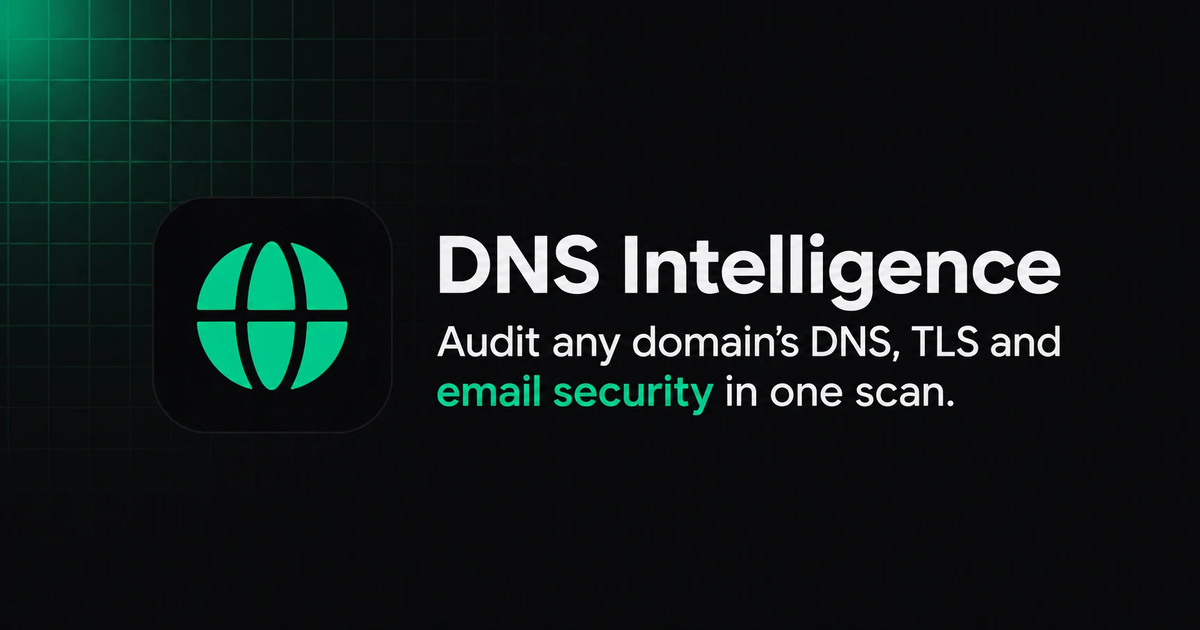
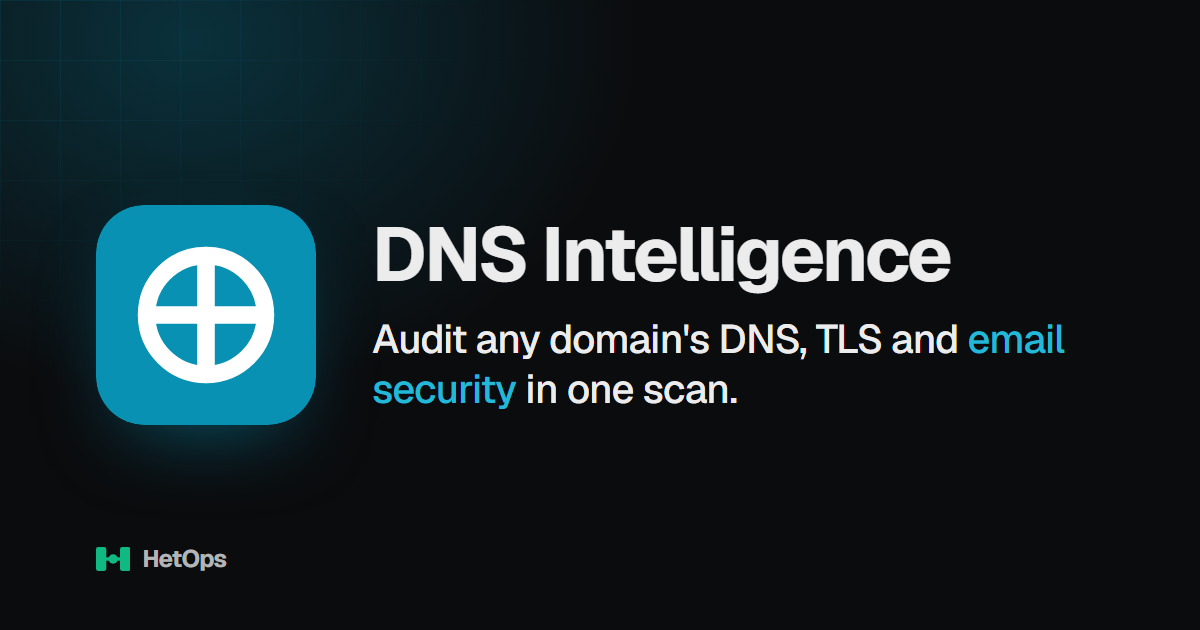
DNS Intelligence gets its own accent: cyan
- Product accent emerald -> cyan #0891B2 across the app and /docs;
  the HetOps symbol stays emerald as the parent brand
- New cyan app icon (Tallybank-style tile) for favicons and app icons
- Share image redrawn in cyan

Changed region(s): [[0.0, 0.0, 0.8942, 0.7238], [0.0617, 0.8746, 0.185, 0.9048], [0.0, 0.3016, 0.0617, 0.3317]]

diff --git a/public/index.html b/public/index.html
@@ -33,12 +33,12 @@
       --mono: 'Geist Mono', ui-monospace, monospace;
       --wordmark: var(--sans);
 
-      --brand:        #10b981;
-      --brand-dim:    #059669;
-      --brand-ink:    #04140d;
-      --brand-glow:   rgba(16,185,129,0.22);
-      --brand-subtle: rgba(16,185,129,0.09);
-      --brand-border: rgba(16,185,129,0.34);
+      --brand:        #0891b2;
+      --brand-dim:    #0e7490;
+      --brand-ink:    #03161b;
+      --brand-glow:   rgba(8,145,178,0.22);
+      --brand-subtle: rgba(8,145,178,0.09);
+      --brand-border: rgba(8,145,178,0.34);
 
       /* The old cyan accent now resolves to the brand accent */
       --accent:        var(--brand);
@@ -58,7 +58,7 @@
       --bg-card-hi: #15181c;
       --border:     rgba(255,255,255,0.07);
       --border-hi:  rgba(255,255,255,0.13);
-      --border-glow:rgba(16,185,129,0.28);
+      --border-glow:rgba(8,145,178,0.28);
       --text:       #ececed;
       --text-dim:   rgba(236,236,237,0.74);
       --text-muted: rgba(236,236,237,0.6);
@@ -79,7 +79,7 @@
       min-height: 100dvh; -webkit-font-smoothing: antialiased; overflow-x: hidden;
       font-feature-settings: "ss01", "cv11";
     }
-    ::selection { background: rgba(16,185,129,0.3); }
+    ::selection { background: rgba(8,145,178,0.3); }
     ::-webkit-scrollbar { width: 8px; height: 8px; }
     ::-webkit-scrollbar-track { background: transparent; }
     ::-webkit-scrollbar-thumb { background: rgba(255,255,255,0.08); border-radius: 8px; border: 2px solid var(--bg); }
@@ -98,7 +98,7 @@
     }
     .bg-glow {
       position: absolute; top: -380px; left: -120px; width: 1100px; height: 760px;
-      background: radial-gradient(closest-side, rgba(16,185,129,0.13), transparent);
+      background: radial-gradient(closest-side, rgba(8,145,178,0.13), transparent);
     }
 
     /* ══ LAYOUT ══════════════════════════════════════════════════ */
@@ -184,7 +184,7 @@
     .hero-aside {
       background: linear-gradient(180deg, rgba(255,255,255,0.025), rgba(255,255,255,0.01));
       border: 1px solid var(--border); border-radius: 16px; padding: 22px 22px 10px;
-      box-shadow: 0 30px 80px -40px rgba(16,185,129,0.25), inset 0 1px 0 rgba(255,255,255,0.04);
+      box-shadow: 0 30px 80px -40px rgba(8,145,178,0.25), inset 0 1px 0 rgba(255,255,255,0.04);
       animation: riseIn 0.8s 0.2s var(--ease) both;
     }
     .aside-head { display: flex; align-items: baseline; justify-content: space-between; margin-bottom: 14px; }
@@ -203,7 +203,7 @@
       box-shadow: 0 1px 0 rgba(255,255,255,0.04) inset, 0 20px 50px -30px rgba(0,0,0,0.8);
       transition: border-color 0.2s, box-shadow 0.2s;
     }
-    .search-row:focus-within { border-color: var(--brand-border); box-shadow: 0 0 0 4px rgba(16,185,129,0.12); }
+    .search-row:focus-within { border-color: var(--brand-border); box-shadow: 0 0 0 4px rgba(8,145,178,0.12); }
     .search-icon { width: 18px; height: 18px; margin-left: 10px; color: var(--text-faint); flex-shrink: 0; }
     .search-input {
       flex: 1; min-width: 0; height: 46px; background: transparent; border: none; outline: none;
@@ -215,12 +215,12 @@
       background: var(--brand); color: var(--brand-ink); border: none; border-radius: var(--r-ctl);
       font-family: var(--sans); font-size: 14px; font-weight: 600;
       height: 46px; padding: 0 22px; cursor: pointer; white-space: nowrap;
-      box-shadow: inset 0 1px 0 rgba(255,255,255,0.25), 0 6px 20px -8px rgba(16,185,129,0.6);
+      box-shadow: inset 0 1px 0 rgba(255,255,255,0.25), 0 6px 20px -8px rgba(8,145,178,0.6);
       transition: transform 0.15s var(--ease), background 0.15s, box-shadow 0.15s;
     }
-    .btn-analyze:hover { background: #22c79a; }
+    .btn-analyze:hover { background: #0ba5c9; }
     .btn-analyze:active { transform: scale(0.98); }
-    .btn-analyze:disabled { background: rgba(16,185,129,0.35); color: rgba(4,20,13,0.8); cursor: progress; box-shadow: none; }
+    .btn-analyze:disabled { background: rgba(8,145,178,0.35); color: rgba(4,20,13,0.8); cursor: progress; box-shadow: none; }
 
     .examples { display: flex; align-items: center; gap: 6px; flex-wrap: wrap; margin-top: 16px; }
     .examples-lbl { font-size: 12.5px; color: var(--text-faint); margin-right: 4px; }
@@ -237,7 +237,7 @@
       display: grid; grid-template-columns: minmax(0,1fr) auto; grid-template-areas: "id score" "actions actions";
       gap: 18px 28px; align-items: center; padding: 24px 28px; margin-bottom: 12px;
       background:
-        radial-gradient(600px 200px at 0% 0%, rgba(16,185,129,0.08), transparent 70%),
+        radial-gradient(600px 200px at 0% 0%, rgba(8,145,178,0.08), transparent 70%),
         var(--bg-card);
     }
     .domain-hdr-left { grid-area: id; min-width: 0; }
@@ -342,7 +342,7 @@
       padding: 11px 16px; border-bottom: 1px solid rgba(255,255,255,0.03);
       transition: background 0.15s;
     }
-    .record-row:hover { background: rgba(16,185,129,0.04); }
+    .record-row:hover { background: rgba(8,145,178,0.04); }
     .record-row:last-child { border-bottom: none; }
     .rtype-badge {
       border-radius: 6px; font-family: 'Geist Mono', monospace;
@@ -376,7 +376,7 @@
       padding: 10px 18px; border-bottom: 1px solid rgba(255,255,255,0.03);
       align-items: baseline; transition: background 0.12s;
     }
-    .wrow:hover { background: rgba(16,185,129,0.03); }
+    .wrow:hover { background: rgba(8,145,178,0.03); }
     .wrow:last-child { border-bottom: none; }
     .wlabel { font-size: 11px; font-weight: 600; color: var(--text-muted); letter-spacing: 0.02em; }
     .wvalue { font-family: 'Geist Mono', monospace; font-size: 12px; color: var(--text-dim); word-break: break-all; }
@@ -400,7 +400,7 @@
       padding: 14px 18px; border-bottom: 1px solid rgba(255,255,255,0.03);
       transition: background 0.12s;
     }
-    .chk-row:hover { background: rgba(16,185,129,0.03); }
+    .chk-row:hover { background: rgba(8,145,178,0.03); }
     .chk-row:last-child { border-bottom: none; }
     .chk-icon { font-size: 16px; flex-shrink: 0; margin-top: 1px; }
     .chk-name { font-size: 13px; font-weight: 600; }
@@ -413,7 +413,7 @@
       padding: 12px 18px; border-bottom: 1px solid rgba(255,255,255,0.03);
       transition: background 0.12s;
     }
-    .prop-row:hover { background: rgba(16,185,129,0.03); }
+    .prop-row:hover { background: rgba(8,145,178,0.03); }
     .prop-row:last-child { border-bottom: none; }
     .prop-name { font-size: 13px; font-weight: 600; }
     .prop-loc { font-size: 11px; color: var(--text-muted); margin-top: 2px; }
@@ -429,9 +429,9 @@
       position: relative; overflow: hidden;
     }
     .port-card.open {
-      border-color: rgba(16,185,129,0.35);
-      background: linear-gradient(135deg, rgba(16,185,129,0.08) 0%, var(--bg-card) 60%);
-      box-shadow: 0 0 24px rgba(16,185,129,0.12), inset 0 1px 0 rgba(16,185,129,0.1);
+      border-color: rgba(8,145,178,0.35);
+      background: linear-gradient(135deg, rgba(8,145,178,0.08) 0%, var(--bg-card) 60%);
+      box-shadow: 0 0 24px rgba(8,145,178,0.12), inset 0 1px 0 rgba(8,145,178,0.1);
     }
     .port-card:hover { transform: translateY(-3px); box-shadow: 0 12px 40px rgba(0,0,0,0.5); }
     .port-num { font-family: 'Geist Mono', monospace; font-size: 20px; font-weight: 600; }
@@ -441,7 +441,7 @@
       display: inline-flex; align-items: center; font-size: 10px; font-weight: 700;
       letter-spacing: 0.06em; padding: 3px 8px; border-radius: 5px; margin-top: 10px;
     }
-    .port-badge.open { background: rgba(16,185,129,0.15); color: var(--brand); border: 1px solid rgba(16,185,129,0.35); }
+    .port-badge.open { background: rgba(8,145,178,0.15); color: var(--brand); border: 1px solid rgba(8,145,178,0.35); }
     .port-badge.closed { background: rgba(255,255,255,0.03); color: var(--text-faint); border: 1px solid var(--border); }
 
     /* ══ GEO ═════════════════════════════════════════════════════ */
@@ -484,7 +484,7 @@
       position: absolute; top: calc(100% + 8px); left: 0; right: 0;
       background: #121417; border: 1px solid var(--border-hi);
       border-radius: 14px; overflow-y: auto; max-height: 320px;
-      box-shadow: 0 12px 48px rgba(0,0,0,0.7), 0 0 0 1px rgba(16,185,129,0.08);
+      box-shadow: 0 12px 48px rgba(0,0,0,0.7), 0 0 0 1px rgba(8,145,178,0.08);
       z-index: 60;
     }
     .history-header {
@@ -507,7 +507,7 @@
       color: var(--text-muted); cursor: pointer; transition: all 0.15s;
       text-align: left;
     }
-    .history-item:hover { background: rgba(16,185,129,0.06); color: var(--text); }
+    .history-item:hover { background: rgba(8,145,178,0.06); color: var(--text); }
     .history-item svg { width:12px; height:12px; flex-shrink:0; color:var(--text-faint); }
     .history-domain { font-family: 'Geist Mono', monospace; font-size: 13px; flex: 1; }
 
@@ -526,7 +526,7 @@
     }
     .skel::after {
       content: ''; position: absolute; inset: 0;
-      background: linear-gradient(90deg, transparent, rgba(16,185,129,0.12), transparent);
+      background: linear-gradient(90deg, transparent, rgba(8,145,178,0.12), transparent);
       transform: translateX(-100%);
       animation: skelScan 1.6s ease-in-out infinite;
     }
@@ -541,11 +541,11 @@
     }
     .load-spinner {
       width: 32px; height: 32px; border-radius: 50%;
-      border: 2px solid rgba(16,185,129,0.15);
+      border: 2px solid rgba(8,145,178,0.15);
       border-top-color: var(--accent);
-      border-right-color: rgba(16,185,129,0.5);
+      border-right-color: rgba(8,145,178,0.5);
       animation: spin 0.85s linear infinite;
-      box-shadow: 0 0 20px rgba(16,185,129,0.2);
+      box-shadow: 0 0 20px rgba(8,145,178,0.2);
     }
     @keyframes spin { to { transform: rotate(360deg); } }
 
@@ -590,7 +590,7 @@
       font-family: 'Geist', sans-serif; transition: all .2s;
       display: flex; align-items: center; gap: 6px;
     }
-    .btn-export:hover { background: rgba(16,185,129,.12); border-color: var(--brand-border); color: var(--brand); }
+    .btn-export:hover { background: rgba(8,145,178,.12); border-color: var(--brand-border); color: var(--brand); }
     .btn-export svg { width:13px; height:13px; flex-shrink:0; }
     .hdr-actions { display: flex; align-items: center; gap: 8px; flex-wrap: wrap; }
 
@@ -644,7 +644,7 @@
       background: none; border: 1px solid var(--border); border-radius: 7px;
       padding: 4px 10px; cursor: pointer; transition: all .15s; white-space: nowrap; align-self: center;
     }
-    .sc-view:hover { color: var(--accent); border-color: var(--accent-border); background: rgba(16,185,129,.06); }
+    .sc-view:hover { color: var(--accent); border-color: var(--accent-border); background: rgba(8,145,178,.06); }
     .sc-empty { font-size: 13px; color: var(--text-muted); padding: 8px 2px; }
     .sc-scanning { display: flex; align-items: center; gap: 10px; font-size: 12.5px;
       color: var(--text-muted); padding: 10px 2px; }
@@ -762,7 +762,7 @@
       font-size: 13px; font-weight: 600; padding: 9px 16px; border-radius: 10px;
       cursor: pointer; transition: all .18s;
     }
-    .hero-tool-btn:hover { color: var(--accent); border-color: var(--accent-border); background: rgba(16,185,129,.06); }
+    .hero-tool-btn:hover { color: var(--accent); border-color: var(--accent-border); background: rgba(8,145,178,.06); }
     .hero-tool-btn svg { width: 15px; height: 15px; }
 
     .cmp-overlay {
@@ -812,7 +812,7 @@
     .cmp-hist-item { display: flex; align-items: center; gap: 12px; padding: 10px 12px;
       border-radius: 10px; background: rgba(255,255,255,.02); border: 1px solid var(--border);
       cursor: pointer; transition: all .15s; }
-    .cmp-hist-item:hover { background: rgba(16,185,129,.05); border-color: var(--accent-border); }
+    .cmp-hist-item:hover { background: rgba(8,145,178,.05); border-color: var(--accent-border); }
     .cmp-hist-grade { font-family: 'Geist', sans-serif; font-weight: 900; font-size: 18px;
       width: 38px; text-align: center; flex-shrink: 0; }
     .cmp-hist-domain { font-family: 'Geist Mono', monospace; font-size: 13px; flex: 1; min-width: 0;
@@ -829,11 +829,11 @@
     .nav-acct { display: flex; align-items: center; }
     .nav-signin {
       display: inline-flex; align-items: center; gap: 6px;
-      background: rgba(16,185,129,.1); border: 1px solid var(--brand-border);
+      background: rgba(8,145,178,.1); border: 1px solid var(--brand-border);
       color: var(--brand); font-family: 'Geist', sans-serif; font-size: 13px; font-weight: 600;
       padding: 6px 14px; border-radius: 9px; cursor: pointer; transition: all .18s;
     }
-    .nav-signin:hover { background: rgba(16,185,129,.18); }
+    .nav-signin:hover { background: rgba(8,145,178,.18); }
     .nav-signin svg { width: 14px; height: 14px; }
     .nav-user { display: inline-flex; align-items: center; gap: 8px; }
     .nav-user-chip {
@@ -842,7 +842,7 @@
     }
     .nav-user-chip .av {
       width: 20px; height: 20px; border-radius: 50%; flex-shrink: 0;
-      background: linear-gradient(135deg, var(--accent), var(--brand)); color: #03130d;
+      background: linear-gradient(135deg, var(--accent), var(--brand)); color: #03161b;
       display: flex; align-items: center; justify-content: center; font-weight: 800; font-size: 11px;
     }
     .nav-logout { background: none; border: none; color: var(--text-faint); font-size: 12px; cursor: pointer; padding: 4px; }
@@ -880,7 +880,7 @@
     .mon-note { display: flex; align-items: flex-start; gap: 8px; font-size: 11.5px; color: var(--text-muted);
       margin-top: 18px; padding-top: 14px; border-top: 1px solid var(--border); line-height: 1.5; }
     .mon-note svg { width: 14px; height: 14px; flex-shrink: 0; margin-top: 1px; color: var(--accent); }
-    .btn-export.watching { background: rgba(16,185,129,.14); border-color: var(--brand-border); color: var(--brand); }
+    .btn-export.watching { background: rgba(8,145,178,.14); border-color: var(--brand-border); color: var(--brand); }
 
     /* Account panel inside the monitoring overlay */
     .acct-sec { margin-top: 18px; padding-top: 16px; border-top: 1px solid var(--border); }
@@ -938,7 +938,7 @@
     .mobile-acct-user { font-size: 13px; color: var(--text-dim); display: flex; align-items: center; gap: 10px;
       padding: 12px 4px; }
     .mobile-acct-user .av { width: 26px; height: 26px; border-radius: 50%; flex-shrink: 0;
-      background: linear-gradient(135deg, var(--accent), var(--brand)); color: #03130d;
+      background: linear-gradient(135deg, var(--accent), var(--brand)); color: #03161b;
       display: flex; align-items: center; justify-content: center; font-weight: 800; font-size: 13px; }
     .mobile-acct-logout { width: 100%; justify-content: center; margin-top: 10px; background: rgba(255,255,255,.04);
       border: 1px solid var(--border); color: var(--text-muted); border-radius: 10px; padding: 12px;
@@ -1631,11 +1631,11 @@ const S = { dns:null, whois:null, ssl:null, geoip:null, ports:null, bl:null, pro
 
 // ── Record type colour map ─────────────────────────────────────
 const TC = {
-  A:    { bg:'rgba(16,185,129,.1)',    bd:'rgba(16,185,129,.32)',    fg:'#10b981' },
-  AAAA: { bg:'rgba(16,185,129,.1)',    bd:'rgba(16,185,129,.32)',    fg:'#10b981' },
+  A:    { bg:'rgba(8,145,178,.1)',    bd:'rgba(8,145,178,.32)',    fg:'#0891b2' },
+  AAAA: { bg:'rgba(8,145,178,.1)',    bd:'rgba(8,145,178,.32)',    fg:'#0891b2' },
   MX:   { bg:'rgba(161,161,170,.1)', bd:'rgba(161,161,170,.32)', fg:'#a1a1aa' },
   TXT:  { bg:'rgba(245,158,11,.1)',  bd:'rgba(245,158,11,.32)',  fg:'#f59e0b' },
-  NS:   { bg:'rgba(16,185,129,.1)',  bd:'rgba(16,185,129,.32)',  fg:'#10b981' },
+  NS:   { bg:'rgba(8,145,178,.1)',  bd:'rgba(8,145,178,.32)',  fg:'#0891b2' },
   CNAME:{ bg:'rgba(96,165,250,.1)',  bd:'rgba(96,165,250,.32)',  fg:'#60a5fa' },
   SOA:  { bg:'rgba(244,114,182,.1)', bd:'rgba(244,114,182,.32)', fg:'#f472b6' },
   CAA:  { bg:'rgba(251,146,60,.1)',  bd:'rgba(251,146,60,.32)',  fg:'#fb923c' },
@@ -2269,7 +2269,7 @@ function renderSsl(data){
     const fp256short=c.fingerprint256?(c.fingerprint256.split(':').join('').toLowerCase()):'';
     const fp256display=fp256short?fp256short.match(/.{1,32}/g)?.join(' '):'';
     const sha1Badge=c.sha1Signed?'<span class="pill err" style="font-size:9px">SHA-1 ⚠</span>':'';
-    return `<div style="border-bottom:1px solid rgba(255,255,255,.05);${i===0?'background:rgba(16,185,129,.03)':''}">
+    return `<div style="border-bottom:1px solid rgba(255,255,255,.05);${i===0?'background:rgba(8,145,178,.03)':''}">
       <div style="padding:14px 16px;display:flex;align-items:center;gap:10px;cursor:pointer" onclick="const b=this.parentElement.querySelector('.chain-body');const isHidden=b.style.display==='none';b.style.display=isHidden?'':'none';this.querySelector('.ch-chev').textContent=isHidden?'▲':'▼'">
         <span style="display:flex;flex-direction:column;align-items:center;gap:2px">
           ${i>0?`<span style="width:1px;height:14px;background:rgba(255,255,255,.1)"></span>`:''}
@@ -2321,7 +2321,7 @@ function renderSsl(data){
     if(!supported) return {bg:'rgba(239,68,68,.12)',bd:'rgba(239,68,68,.3)',fg:'var(--err)'};
     if(!proto) return {bg:'rgba(148,163,184,.1)',bd:'rgba(148,163,184,.2)',fg:'var(--text-muted)'};
     if(proto.includes('1.3')) return {bg:'rgba(34,197,94,.12)',bd:'rgba(34,197,94,.3)',fg:'var(--ok)'};
-    if(proto.includes('1.2')) return {bg:'rgba(16,185,129,.12)',bd:'rgba(16,185,129,.3)',fg:'var(--accent)'};
+    if(proto.includes('1.2')) return {bg:'rgba(8,145,178,.12)',bd:'rgba(8,145,178,.3)',fg:'var(--accent)'};
     if(proto.includes('1.1')) return {bg:'rgba(245,158,11,.12)',bd:'rgba(245,158,11,.3)',fg:'var(--warn)'};
     return {bg:'rgba(239,68,68,.12)',bd:'rgba(239,68,68,.3)',fg:'var(--err)'};
   }
@@ -2338,7 +2338,7 @@ function renderSsl(data){
         const pc=protoColor(s.protocol,s.supported);
         const icon=CLIENT_ICONS[s.client]||'💻';
         const cipherShort=s.cipher?(s.cipher.length>28?s.cipher.slice(0,26)+'…':s.cipher):'-';
-        return `<div style="display:grid;grid-template-columns:160px 100px 1fr 60px 36px;align-items:center;padding:10px 14px;background:var(--bg-card);transition:background .15s" onmouseover="this.style.background='rgba(16,185,129,.04)'" onmouseout="this.style.background='var(--bg-card)'">
+        return `<div style="display:grid;grid-template-columns:160px 100px 1fr 60px 36px;align-items:center;padding:10px 14px;background:var(--bg-card);transition:background .15s" onmouseover="this.style.background='rgba(8,145,178,.04)'" onmouseout="this.style.background='var(--bg-card)'">
           <div style="display:flex;align-items:center;gap:8px">
             <span style="font-size:16px;line-height:1">${icon}</span>
             <span style="font-size:12px;font-weight:600;color:var(--text)">${esc(s.client)}</span>
@@ -3798,14 +3798,14 @@ function renderDnssec(data){
   const ratingLabel=rating==='good'?'Configured':rating==='incomplete'?'Partial':'Not Configured';
   
   const dnskeyHtml=data.checks?.dnskey?.present?
-    data.checks.dnskey.records.map(r=>`<div style="padding:10px 14px;background:rgba(16,185,129,.05);border-radius:8px;margin-bottom:8px">
+    data.checks.dnskey.records.map(r=>`<div style="padding:10px 14px;background:rgba(8,145,178,.05);border-radius:8px;margin-bottom:8px">
       <span class="pill accent" style="margin-right:8px">${esc(r.keyType)}</span>
       <span style="font-size:12px;color:var(--text-dim)">Algorithm ${esc(String(r.algorithm))} · KeyTag ${esc(String(r.keyTag))}</span>
     </div>`).join(''):
     '<div style="padding:14px;color:var(--text-muted)">No DNSKEY records found</div>';
   
   const dsHtml=data.checks?.ds?.present?
-    data.checks.ds.records.map(r=>`<div style="padding:10px 14px;background:rgba(16,185,129,.05);border-radius:8px;margin-bottom:8px">
+    data.checks.ds.records.map(r=>`<div style="padding:10px 14px;background:rgba(8,145,178,.05);border-radius:8px;margin-bottom:8px">
       <span style="font-size:12px;color:var(--text-dim)">KeyTag ${esc(String(r.keyTag))} · Algorithm ${esc(String(r.algorithm))} · Digest ${esc(String(r.digestType))}</span>
     </div>`).join(''):
     '<div style="padding:14px;color:var(--text-muted)">No DS records found at parent zone</div>';
@@ -3910,14 +3910,14 @@ function renderMtasts(data){
     `<span class="pill warn">HTTPS Policy ✗</span>`;
   
   const policyHtml=data.mtaSts?.policy?
-    `<div style="padding:14px;background:rgba(16,185,129,.05);border-radius:8px;margin-top:10px">
+    `<div style="padding:14px;background:rgba(8,145,178,.05);border-radius:8px;margin-top:10px">
       ${data.mtaSts.policy.version?`<div style="font-size:12px;margin-bottom:4px"><span style="color:var(--text-muted)">Version:</span> ${esc(data.mtaSts.policy.version)}</div>`:''}
       ${data.mtaSts.policy.mode?`<div style="font-size:12px;margin-bottom:4px"><span style="color:var(--text-muted)">Mode:</span> <span style="font-weight:600;color:${data.mtaSts.policy.mode==='enforce'?'var(--ok)':data.mtaSts.policy.mode==='testing'?'var(--warn)':'var(--text-dim)'}">${esc(data.mtaSts.policy.mode)}</span></div>`:''}
       ${data.mtaSts.policy.mx?`<div style="font-size:12px"><span style="color:var(--text-muted)">MX:</span> ${esc(data.mtaSts.policy.mx)}</div>`:''}
     </div>`:'';
   
   const tlsaHtml=data.tlsa?.present&&data.tlsa.records?.length>0?
-    data.tlsa.records.map(r=>`<div style="padding:10px 14px;background:rgba(16,185,129,.05);border-radius:8px;margin-bottom:8px">
+    data.tlsa.records.map(r=>`<div style="padding:10px 14px;background:rgba(8,145,178,.05);border-radius:8px;margin-bottom:8px">
       <span class="pill" style="background:var(--brand-subtle);border-color:var(--brand-border);color:var(--brand);margin-right:8px">${['CA','Service','Trust Anchor','Domain'][r.certificateUsage-1]||'Unknown'}</span>
       <span style="font-size:11px;color:var(--text-muted)">Selector: ${r.selector} · Hash: ${r.matchingType} · ${esc(r.hash.substring(0,32))}...</span>
     </div>`).join(''):
@@ -4174,7 +4174,7 @@ function renderEmailSec(data){
       </div>
       <div style="padding:14px">
         ${spf.present?`
-          <div style="font-family:'Geist Mono', monospace;font-size:11px;color:var(--accent);word-break:break-all;padding:8px;background:rgba(16,185,129,.05);border-radius:6px;margin-bottom:10px">${esc(spf.record||'')}</div>
+          <div style="font-family:'Geist Mono', monospace;font-size:11px;color:var(--accent);word-break:break-all;padding:8px;background:rgba(8,145,178,.05);border-radius:6px;margin-bottom:10px">${esc(spf.record||'')}</div>
           ${spf.policy?`<span class="pill ${spf.policy==='-all'?'ok':spf.policy==='+all'?'err':'warn'}">${esc(spf.policy)}</span> `:''}
           ${scoreBar(spf.score||0,spfColor)}
           <div style="margin-top:10px">${issueList(spf.issues||[])}</div>
@@ -4189,7 +4189,7 @@ function renderEmailSec(data){
       </div>
       <div style="padding:14px">
         ${dmarc.present?`
-          <div style="font-family:'Geist Mono', monospace;font-size:11px;color:var(--accent);word-break:break-all;padding:8px;background:rgba(16,185,129,.05);border-radius:6px;margin-bottom:10px">${esc(dmarc.record||'')}</div>
+          <div style="font-family:'Geist Mono', monospace;font-size:11px;color:var(--accent);word-break:break-all;padding:8px;background:rgba(8,145,178,.05);border-radius:6px;margin-bottom:10px">${esc(dmarc.record||'')}</div>
           <div style="display:flex;gap:6px;flex-wrap:wrap;margin-bottom:10px">${dmarcPolicyBadge}${pctBadge}${dmarc.rua?'<span class="pill ok">Reports ✓</span>':'<span class="pill warn">No Reports</span>'}</div>
           ${dmarc.adkim?`<div style="font-size:11px;color:var(--text-muted)">DKIM alignment: ${dmarc.adkim==='s'?'strict':'relaxed'} · SPF alignment: ${dmarc.aspf==='s'?'strict':'relaxed'}</div>`:''}
           ${scoreBar(dmarc.score||0,dmarcColor)}
@@ -4200,7 +4200,7 @@ function renderEmailSec(data){
 
     <div class="card dns-card">
       <div class="dns-card-head">
-        <div class="dns-card-title"><span class="rtype-badge" style="background:rgba(16,185,129,.1);border:1px solid rgba(16,185,129,.32);color:var(--brand)">DKIM</span> DomainKeys Identified Mail</div>
+        <div class="dns-card-title"><span class="rtype-badge" style="background:rgba(8,145,178,.1);border:1px solid rgba(8,145,178,.32);color:var(--brand)">DKIM</span> DomainKeys Identified Mail</div>
       </div>
       <div style="padding:14px">
         ${dkim.present?`

diff --git a/public/docs.html b/public/docs.html
@@ -12,7 +12,7 @@
   <link href="https://fonts.googleapis.com/css2?family=Space+Grotesk:wght@400;500;600;700&family=JetBrains+Mono:wght@400;500;600&display=swap" rel="stylesheet">
   <style>
     *,*::before,*::after{box-sizing:border-box;margin:0;padding:0}
-    :root{--brand:#10b981;--accent:#06b6d4;--bg:#050514;--card:rgba(12,12,30,.7);--border:rgba(255,255,255,.08);--text:#f1f5f9;--dim:rgba(241,245,249,.62);--faint:rgba(241,245,249,.4)}
+    :root{--brand:#0891b2;--accent:#06b6d4;--bg:#050514;--card:rgba(12,12,30,.7);--border:rgba(255,255,255,.08);--text:#f1f5f9;--dim:rgba(241,245,249,.62);--faint:rgba(241,245,249,.4)}
     html{color-scheme:dark}
     body{background:var(--bg);color:var(--text);font-family:'Space Grotesk',sans-serif;line-height:1.6;padding:0 0 80px}
     a{color:var(--brand);text-decoration:none}a:hover{text-decoration:underline}
@@ -31,7 +31,7 @@
     pre{background:#0a0a1e;border:1px solid var(--border);border-radius:12px;padding:16px 18px;overflow-x:auto;margin:12px 0;font-family:'JetBrains Mono',monospace;font-size:13px;line-height:1.55;color:var(--dim)}
     pre .k{color:var(--accent)}pre .s{color:#a3e635}
     .method{display:inline-block;font-family:'JetBrains Mono',monospace;font-size:11px;font-weight:600;padding:2px 8px;border-radius:6px;margin-right:8px}
-    .post{background:rgba(16,185,129,.14);color:var(--brand);border:1px solid rgba(16,185,129,.3)}
+    .post{background:rgba(8,145,178,.14);color:var(--brand);border:1px solid rgba(8,145,178,.3)}
     .get{background:rgba(6,182,212,.14);color:var(--accent);border:1px solid rgba(6,182,212,.3)}
     .ep{font-family:'JetBrains Mono',monospace;font-size:14px}
     table{width:100%;border-collapse:collapse;margin:12px 0;font-size:13px}
@@ -41,7 +41,7 @@
     .card{background:var(--card);border:1px solid var(--border);border-radius:14px;padding:18px 20px;margin:14px 0}
     .toc{display:flex;flex-wrap:wrap;gap:8px;margin-bottom:8px}
     .toc a{font-size:12px;background:rgba(255,255,255,.04);border:1px solid var(--border);padding:5px 11px;border-radius:8px;color:var(--dim)}
-    .toc a:hover{color:var(--brand);border-color:rgba(16,185,129,.3);text-decoration:none}
+    .toc a:hover{color:var(--brand);border-color:rgba(8,145,178,.3);text-decoration:none}
     footer{max-width:880px;margin:40px auto 0;padding:24px;border-top:1px solid var(--border);color:var(--faint);font-size:13px;text-align:center}
   </style>
 </head>
